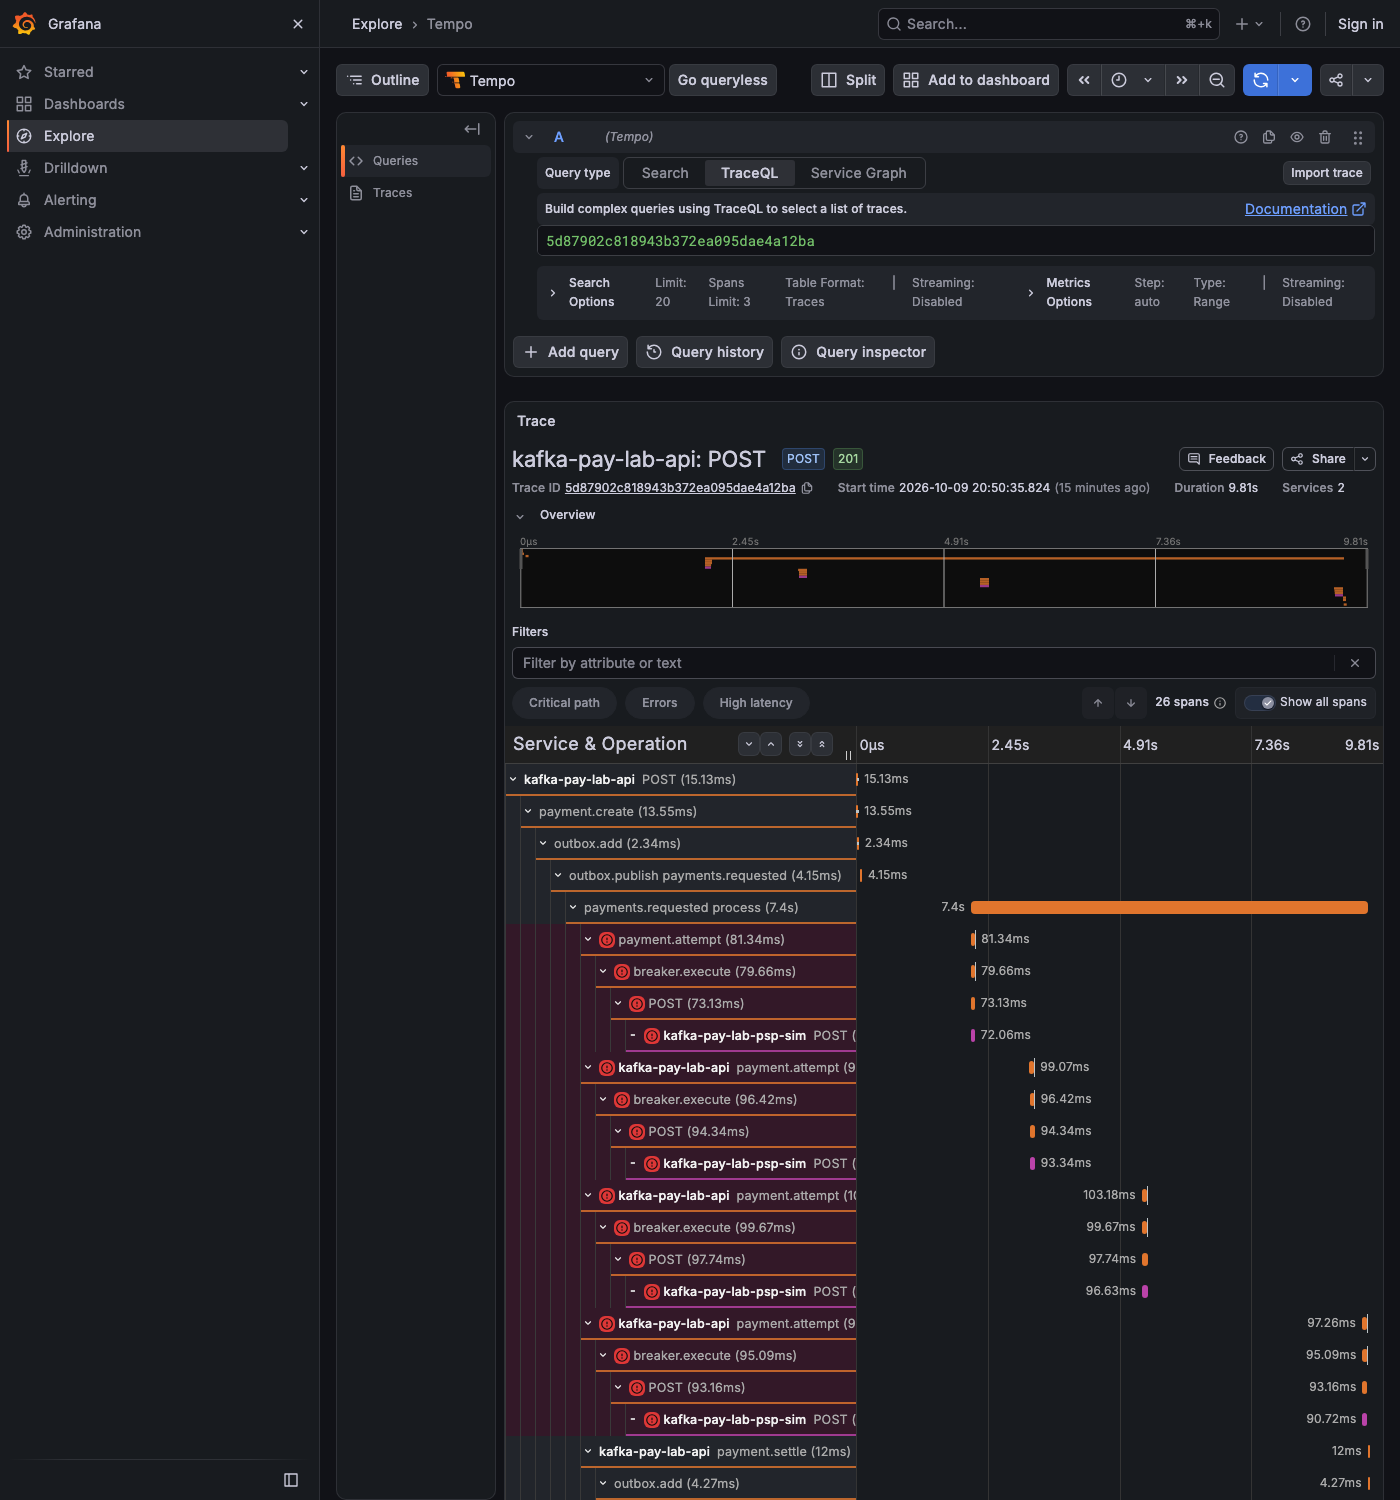
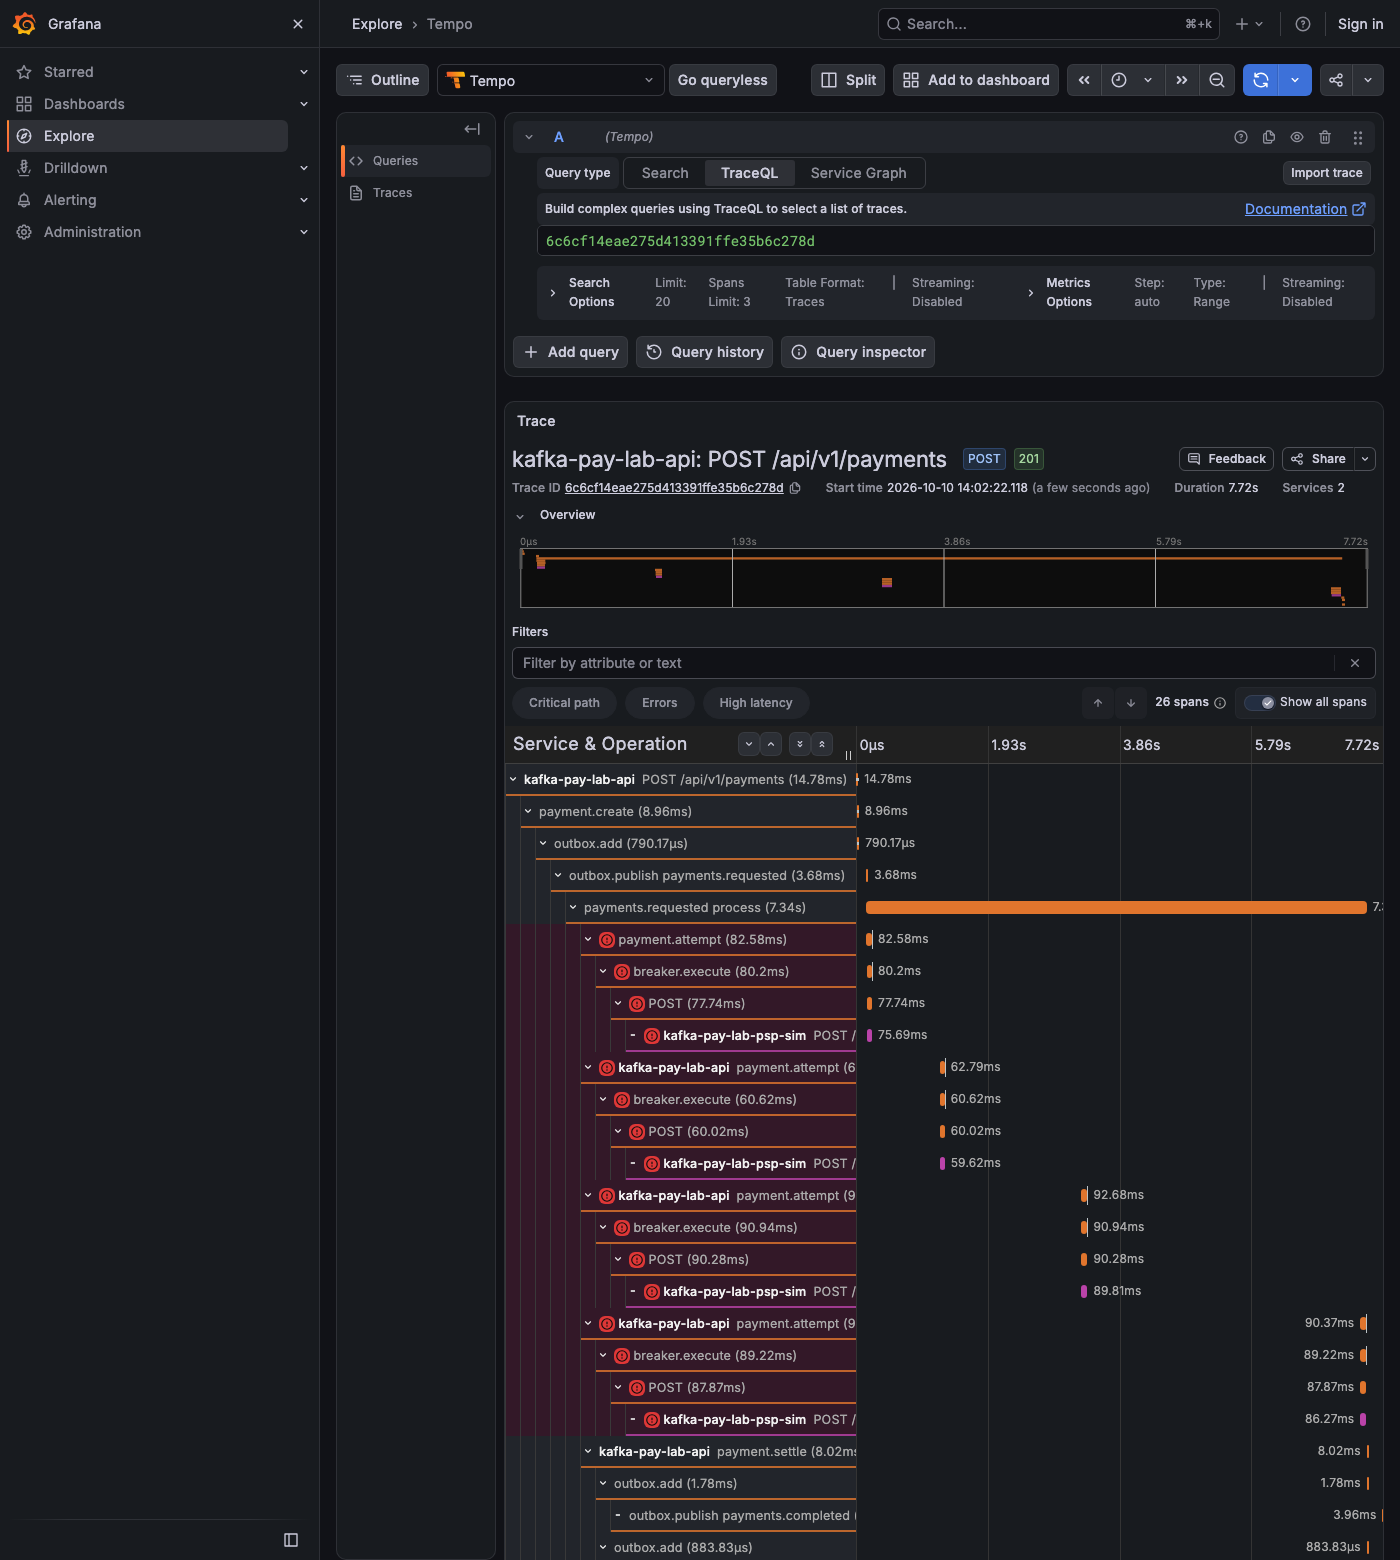
fix(infra): name HTTP spans by route and roll log files with pino-roll (#4)

diff --git a/apps/api/src/infrastructure/telemetry/tracing.ts b/apps/api/src/infrastructure/telemetry/tracing.ts
@@ -1,5 +1,6 @@
 import { readFileSync } from 'node:fs';
 import { parseEnv } from 'node:util';
+import type { HttpInstrumentationConfig } from '@opentelemetry/instrumentation-http';
 import { DEFAULT_OTLP_ENDPOINT } from '../config/defaults.js';
 
 const TRACING_KEYS = ['OTEL_ENABLED', 'OTEL_EXPORTER_OTLP_ENDPOINT'];
@@ -22,6 +23,35 @@ export function loadTracingEnv(files: string[] = ['.env', '../../.env']): void {
         process.env[key] = parsed[key];
     }
   }
+}
+
+interface RoutedRequest {
+  method?: string;
+  baseUrl?: string;
+  route?: { path?: unknown };
+}
+
+/**
+ * `METHOD /route/:template` for server spans. The route is only known once Express has matched it, so
+ * this runs when the response ends. The template, never the URL: ids in span names would make every
+ * payment its own operation in Tempo. No matched route collapses into one fixed word.
+ */
+export function serverSpanName(req: RoutedRequest): string {
+  const route = req.route ? `${req.baseUrl ?? ''}${String(req.route.path)}` : 'unmatched';
+  return `${req.method ?? 'HTTP'} ${route}`;
+}
+
+/** Shared by startTracing and the trace e2e test, so the test exercises the real naming hook. */
+export function httpInstrumentationConfig(
+  ignoreIncomingRequest: (url: string) => boolean,
+): HttpInstrumentationConfig {
+  return {
+    ignoreIncomingRequestHook: (req) => ignoreIncomingRequest(req.url ?? ''),
+    // Runs when the response ends, after Express matched a route; the request then carries `route`.
+    applyCustomAttributesOnSpan: (span, request) => {
+      span.updateName(serverSpanName(request as RoutedRequest));
+    },
+  };
 }
 
 /**
@@ -65,9 +95,7 @@ export async function startTracing(
   provider.register();
   registerInstrumentations({
     instrumentations: [
-      new HttpInstrumentation({
-        ignoreIncomingRequestHook: (req) => ignoreIncomingRequest(req.url ?? ''),
-      }),
+      new HttpInstrumentation(httpInstrumentationConfig(ignoreIncomingRequest)),
       // Node's fetch (PspClient) goes through undici, not node:http.
       new UndiciInstrumentation(),
     ],

diff --git a/apps/api/src/infrastructure/logging/logging.module.ts b/apps/api/src/infrastructure/logging/logging.module.ts
@@ -39,10 +39,17 @@ export function traceFields(): { trace_id?: string; span_id?: string } {
   return span ? { trace_id: span.traceId, span_id: span.spanId } : {};
 }
 
-/** Console output as before; with a log dir the JSON lines are also written to a file for the log shipper. */
+/** Files kept besides the current one; with the default size this bounds the log folder at about 60 MB. */
+const LOG_FILES_KEPT = 5;
+
+/**
+ * Console output as before; with a log dir the JSON lines are also written to rolling files for the log
+ * shipper (`<dir>/api.<n>.log`, new number on every roll, oldest deleted). Rolls daily and at `rollSize`.
+ */
 export function buildTransport(
   isProduction: boolean,
   logDir: string | undefined,
+  rollSize = '10m',
 ): TransportSingleOptions | TransportMultiOptions | undefined {
   const consoleTarget: TransportSingleOptions = isProduction
     ? { target: 'pino/file', options: { destination: 1 } }
@@ -51,7 +58,17 @@ export function buildTransport(
   return {
     targets: [
       consoleTarget,
-      { target: 'pino/file', options: { destination: join(logDir, 'api.log'), mkdir: true } },
+      {
+        target: 'pino-roll',
+        options: {
+          file: join(logDir, 'api'),
+          extension: '.log',
+          frequency: 'daily',
+          size: rollSize,
+          limit: { count: LOG_FILES_KEPT },
+          mkdir: true,
+        },
+      },
     ],
   };
 }
@@ -72,7 +89,11 @@ export const AppLoggerModule = LoggerModule.forRootAsync({
         customProps: (req) => ({ requestId: req.id }),
         redact: { paths: REDACTED_PATHS, censor: '[REDACTED]' },
         mixin: traceFields,
-        transport: buildTransport(isProduction, config.get('LOG_DIR', { infer: true })),
+        transport: buildTransport(
+          isProduction,
+          config.get('LOG_DIR', { infer: true }),
+          config.get('LOG_ROLL_SIZE', { infer: true }),
+        ),
       },
     };
   },

diff --git a/apps/psp-sim/src/json-log.spec.ts b/apps/psp-sim/src/json-log.spec.ts
@@ -1,20 +1,39 @@
-import { mkdtempSync, readFileSync } from 'node:fs';
+import { mkdtempSync, readFileSync, readdirSync } from 'node:fs';
 import { tmpdir } from 'node:os';
 import { join } from 'node:path';
-import { logLine } from './json-log.js';
+import { closeLog, initLog, logLine, rollOptions } from './json-log.js';
+
+describe('rollOptions', () => {
+  it('rolls daily and at the given size into <dir>/psp-sim.<n>.log, keeping a bounded number', () => {
+    expect(rollOptions('/var/logs', '5m')).toEqual({
+      file: '/var/logs/psp-sim',
+      extension: '.log',
+      frequency: 'daily',
+      size: '5m',
+      limit: { count: 5 },
+      mkdir: true,
+    });
+  });
+});
 
 describe('logLine', () => {
-  it('does nothing without a log dir', () => {
-    expect(() => logLine(undefined, { msg: 'x' })).not.toThrow();
+  afterEach(() => closeLog());
+
+  it('does nothing before the log is initialised', () => {
+    expect(() => logLine({ msg: 'x' })).not.toThrow();
   });
 
-  it('appends one JSON line per call with the service name and a timestamp', () => {
+  it('appends one JSON line per call with the service name and a timestamp', async () => {
     const dir = mkdtempSync(join(tmpdir(), 'psp-sim-log-'));
+    await initLog(dir, '10m');
 
-    logLine(dir, { msg: 'charge', outcome: 'approved' });
-    logLine(dir, { msg: 'charge', outcome: 'http503' });
+    logLine({ msg: 'charge', outcome: 'approved' });
+    logLine({ msg: 'charge', outcome: 'http503' });
+    await closeLog();
 
-    const lines = readFileSync(join(dir, 'psp-sim.log'), 'utf8')
+    const [file] = readdirSync(dir);
+    expect(file).toMatch(/^psp-sim\.\d+\.log$/);
+    const lines = readFileSync(join(dir, file ?? ''), 'utf8')
       .trim()
       .split('\n')
       .map((line) => JSON.parse(line) as Record<string, unknown>);

diff --git a/apps/psp-sim/src/json-log.ts b/apps/psp-sim/src/json-log.ts
@@ -1,15 +1,39 @@
-import { appendFileSync, mkdirSync } from 'node:fs';
 import { join } from 'node:path';
+import pinoRoll from 'pino-roll';
+import type { RollingStream } from 'pino-roll';
 
-/**
- * One JSON line per event for the log shipper, same shape as the api's pino lines (`time`, `msg`, `trace_id`).
- * ponytail: synchronous append, fine for a simulator; use a stream if volume ever matters.
- */
-export function logLine(dir: string | undefined, fields: Record<string, string | number>): void {
-  if (!dir) return;
-  mkdirSync(dir, { recursive: true });
-  appendFileSync(
-    join(dir, 'psp-sim.log'),
+/** Same policy as the api's pino transport: daily or at `size`, the 5 newest files kept (ADR 0013). */
+export function rollOptions(dir: string, size: string) {
+  return {
+    file: join(dir, 'psp-sim'),
+    extension: '.log',
+    frequency: 'daily' as const,
+    size,
+    limit: { count: 5 },
+    mkdir: true,
+  };
+}
+
+let stream: RollingStream | undefined;
+
+/** Opens the rolling log file; without a log dir nothing is written. Called once at startup. */
+export async function initLog(dir: string | undefined, size = '10m'): Promise<void> {
+  if (dir) stream = await pinoRoll(rollOptions(dir, size));
+}
+
+export async function closeLog(): Promise<void> {
+  const open = stream;
+  stream = undefined;
+  if (!open) return;
+  await new Promise<void>((resolve) => {
+    open.once('close', resolve);
+    open.end();
+  });
+}
+
+/** One JSON line per event for the log shipper, same shape as the api's pino lines (`time`, `msg`, `trace_id`). */
+export function logLine(fields: Record<string, string | number>): void {
+  stream?.write(
     `${JSON.stringify({ time: Date.now(), service: 'kafka-pay-lab-psp-sim', ...fields })}\n`,
   );
 }

diff --git a/apps/api/test/observability.e2e-spec.ts b/apps/api/test/observability.e2e-spec.ts
@@ -4,6 +4,7 @@ import type { Server } from 'node:http';
 import type { AddressInfo } from 'node:net';
 import { registerInstrumentations } from '@opentelemetry/instrumentation';
 import { HttpInstrumentation } from '@opentelemetry/instrumentation-http';
+import { httpInstrumentationConfig } from '../src/infrastructure/telemetry/tracing.js';
 import { setupTestTracing } from './helpers/tracing.js';
 import type { TestApp } from './helpers/test-app.js';
 
@@ -21,7 +22,12 @@ describe('trace propagation through the outbox and Kafka (e2e)', () => {
     // Registered before express and supertest are imported below, so node:http is patched in time.
     // Outgoing requests are ignored: the test client must not replace the traceparent header we send.
     registerInstrumentations({
-      instrumentations: [new HttpInstrumentation({ ignoreOutgoingRequestHook: () => true })],
+      instrumentations: [
+        new HttpInstrumentation({
+          ...httpInstrumentationConfig(() => false),
+          ignoreOutgoingRequestHook: () => true,
+        }),
+      ],
     });
     provider = createServer((req, res) => {
       req.resume();
@@ -73,6 +79,7 @@ describe('trace propagation through the outbox and Kafka (e2e)', () => {
     const spans = ours();
     const byName = (name: string) => spans.filter((s) => s.name === name);
     for (const name of [
+      'POST /api/v1/payments',
       'payment.create',
       'outbox.add',
       'outbox.publish payments.requested',

diff --git a/apps/api/src/infrastructure/logging/logging.module.spec.ts b/apps/api/src/infrastructure/logging/logging.module.spec.ts
@@ -68,13 +68,30 @@ describe('log transport', () => {
     expect(buildTransport(true, undefined)).toBeUndefined();
   });
 
-  it('also writes JSON lines to <dir>/api.log when a log dir is set', () => {
-    expect(buildTransport(true, '/var/logs')).toEqual({
+  it('also writes JSON lines to rolling files <dir>/api.<n>.log when a log dir is set', () => {
+    expect(buildTransport(true, '/var/logs', '5m')).toEqual({
       targets: [
         { target: 'pino/file', options: { destination: 1 } },
-        { target: 'pino/file', options: { destination: '/var/logs/api.log', mkdir: true } },
+        {
+          target: 'pino-roll',
+          options: {
+            file: '/var/logs/api',
+            extension: '.log',
+            frequency: 'daily',
+            size: '5m',
+            limit: { count: 5 },
+            mkdir: true,
+          },
+        },
       ],
     });
+  });
+
+  it('rolls at 10 MB by default and keeps a bounded number of files', () => {
+    const transport = buildTransport(true, '/var/logs');
+
+    expect(JSON.stringify(transport)).toContain('"size":"10m"');
+    expect(JSON.stringify(transport)).toContain('"limit":{"count":5}');
   });
 
   it.each(['*.cardToken', 'req.body.cardToken'])('redacts %s', (path) => {

diff --git a/apps/psp-sim/src/telemetry/tracing.ts b/apps/psp-sim/src/telemetry/tracing.ts
@@ -1,4 +1,18 @@
+import type { HttpInstrumentationConfig } from '@opentelemetry/instrumentation-http';
+
 const DEFAULT_OTLP_ENDPOINT = 'http://127.0.0.1:4318';
+
+interface RoutedRequest {
+  method?: string;
+  baseUrl?: string;
+  route?: { path?: unknown };
+}
+
+/** `METHOD /route/:template`; a copy of the api's helper (docs/adr/0010-opentelemetry-opt-in.md). */
+export function serverSpanName(req: RoutedRequest): string {
+  const route = req.route ? `${req.baseUrl ?? ''}${String(req.route.path)}` : 'unmatched';
+  return `${req.method ?? 'HTTP'} ${route}`;
+}
 
 /**
  * Starts the OpenTelemetry SDK when OTEL_ENABLED=true; otherwise returns at once and no SDK package is
@@ -40,7 +54,11 @@ export async function startTracing(
     instrumentations: [
       new HttpInstrumentation({
         ignoreIncomingRequestHook: (req) => ignoreIncomingRequest(req.url ?? ''),
-      }),
+        // Runs when the response ends, after Express matched a route.
+        applyCustomAttributesOnSpan: (span, request) => {
+          span.updateName(serverSpanName(request as RoutedRequest));
+        },
+      } satisfies HttpInstrumentationConfig),
     ],
   });
 }

diff --git a/apps/api/src/infrastructure/telemetry/http-span-name.spec.ts b/apps/api/src/infrastructure/telemetry/http-span-name.spec.ts
@@ -1,0 +1,29 @@
+import { serverSpanName } from './tracing.js';
+
+describe('serverSpanName', () => {
+  it('uses the route template, so ids never reach the span name', () => {
+    expect(serverSpanName({ method: 'GET', route: { path: '/api/v1/payments/:id' } })).toBe(
+      'GET /api/v1/payments/:id',
+    );
+  });
+
+  it('prefixes the mount path of a nested router', () => {
+    expect(serverSpanName({ method: 'POST', baseUrl: '/api', route: { path: '/charges' } })).toBe(
+      'POST /api/charges',
+    );
+  });
+
+  it('falls back to a fixed word when no route matched', () => {
+    expect(serverSpanName({ method: 'GET' })).toBe('GET unmatched');
+  });
+
+  it('never contains the concrete url', () => {
+    const name = serverSpanName({
+      method: 'GET',
+      url: '/api/v1/payments/5d9d2ba7-c2c1-470c-8cfb-125a5adb1eff',
+      route: { path: '/api/v1/payments/:id' },
+    } as never);
+
+    expect(name).not.toMatch(/[0-9a-f]{8}-/);
+  });
+});

diff --git a/apps/psp-sim/src/main.ts b/apps/psp-sim/src/main.ts
@@ -1,5 +1,6 @@
 import { resolve } from 'node:path';
 import type { NestExpressApplication } from '@nestjs/platform-express';
+import { initLog } from './json-log.js';
 import { startTracing } from './telemetry/tracing.js';
 
 /** Same root `.env` as the api, so OTEL_ENABLED and LOG_DIR apply to both. Existing variables win. */
@@ -13,6 +14,7 @@ function loadRootEnv(): void {
 
 async function bootstrap(): Promise<void> {
   loadRootEnv();
+  await initLog(process.env.LOG_DIR, process.env.LOG_ROLL_SIZE);
   // Only the charge calls are worth a trace; the control page and its event stream are noise.
   await startTracing('kafka-pay-lab-psp-sim', (url) => !url.startsWith('/charges'));
   // Imported only now, after the HTTP instrumentation had its chance to patch node:http.

diff --git a/apps/api/src/infrastructure/config/env.validation.spec.ts b/apps/api/src/infrastructure/config/env.validation.spec.ts
@@ -94,6 +94,7 @@ describe('observability settings', () => {
     expect(env.METRICS_HOST).toBe('127.0.0.1');
     expect(env.METRICS_PORT).toBe(9464);
     expect(env.LOG_DIR).toBeUndefined();
+    expect(env.LOG_ROLL_SIZE).toBe('10m');
     expect(env.OTEL_EXPORTER_OTLP_ENDPOINT).toBe('http://127.0.0.1:4318');
   });
 
@@ -108,6 +109,7 @@ describe('observability settings', () => {
     ['OTEL_EXPORTER_OTLP_ENDPOINT', 'not a url'],
     ['METRICS_PORT', '70000'],
     ['METRICS_PORT', 'abc'],
+    ['LOG_ROLL_SIZE', '10 MB'],
   ])('rejects an invalid %s', (name, value) => {
     expect(() => validateEnv({ APP_ENV: 'dev', [name]: value })).toThrow(name);
   });

diff --git a/apps/psp-sim/src/pino-roll.d.ts b/apps/psp-sim/src/pino-roll.d.ts
@@ -1,0 +1,19 @@
+// pino-roll ships no types. Only the part this app uses is declared.
+declare module 'pino-roll' {
+  interface RollOptions {
+    file: string;
+    extension?: string;
+    frequency?: 'daily' | 'hourly';
+    size?: string;
+    limit?: { count: number };
+    mkdir?: boolean;
+  }
+
+  export interface RollingStream {
+    write(chunk: string): boolean;
+    end(): void;
+    once(event: 'close', listener: () => void): unknown;
+  }
+
+  export default function pinoRoll(options: RollOptions): Promise<RollingStream>;
+}

diff --git a/apps/api/src/infrastructure/config/env.validation.ts b/apps/api/src/infrastructure/config/env.validation.ts
@@ -7,6 +7,7 @@ import {
   IsOptional,
   IsString,
   IsUrl,
+  Matches,
   Max,
   MinLength,
   Min,
@@ -183,6 +184,10 @@ export class EnvironmentVariables {
   @IsString()
   @IsNotEmpty()
   LOG_DIR?: string;
+
+  /** Size at which a log file rolls (pino-roll syntax: a number and k, m or g). Five files are kept. */
+  @Matches(/^\d+[kmg]$/)
+  LOG_ROLL_SIZE = '10m';
 }
 
 function formatErrors(errors: ValidationError[]): string {
